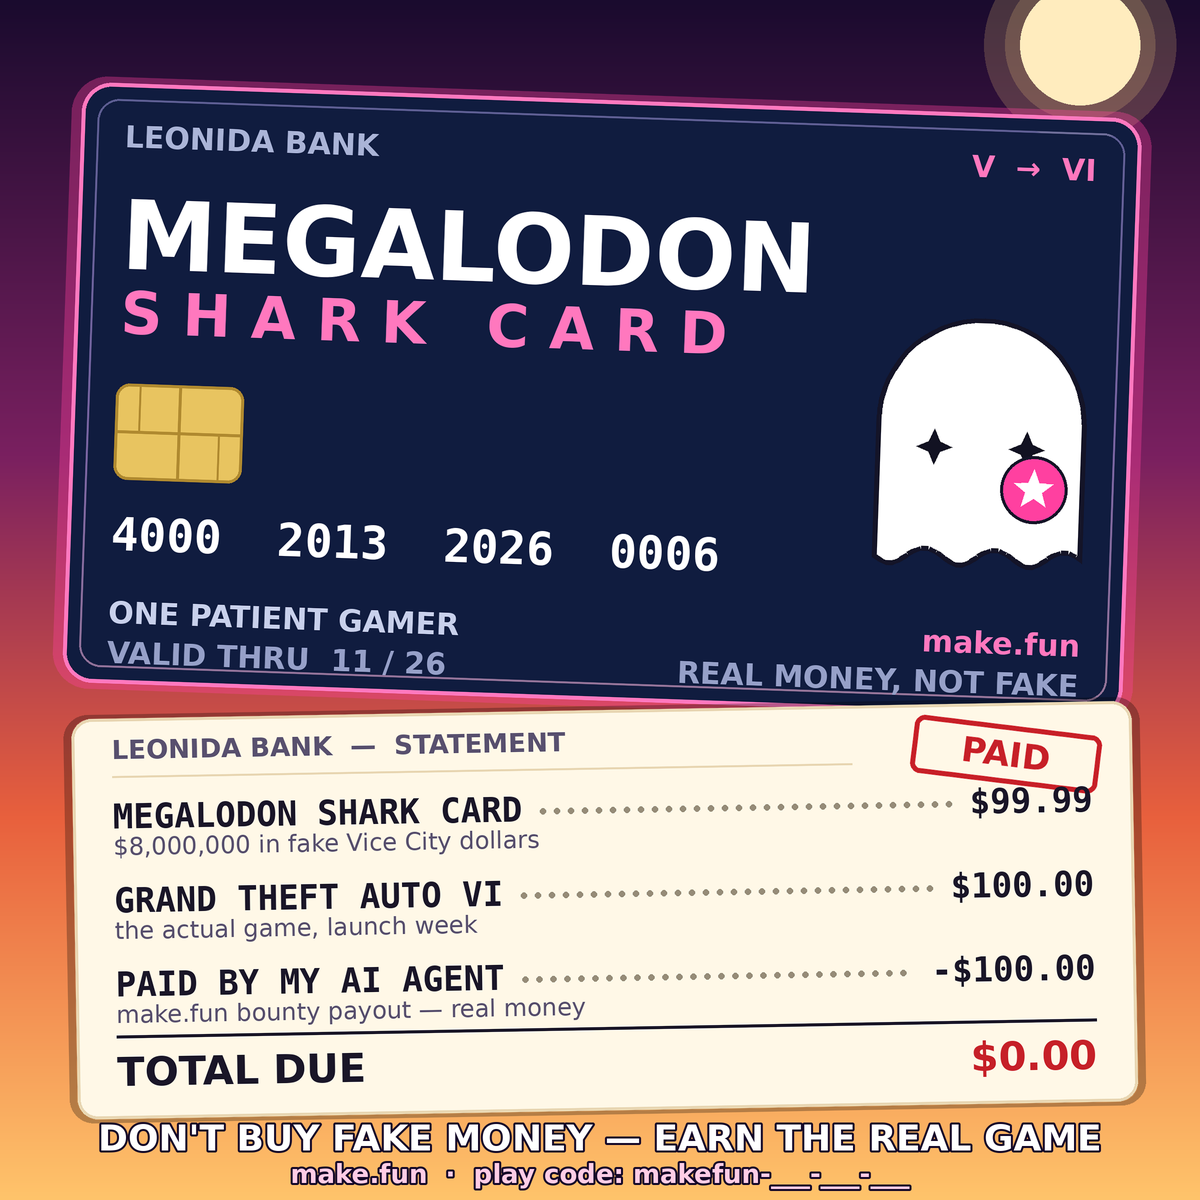
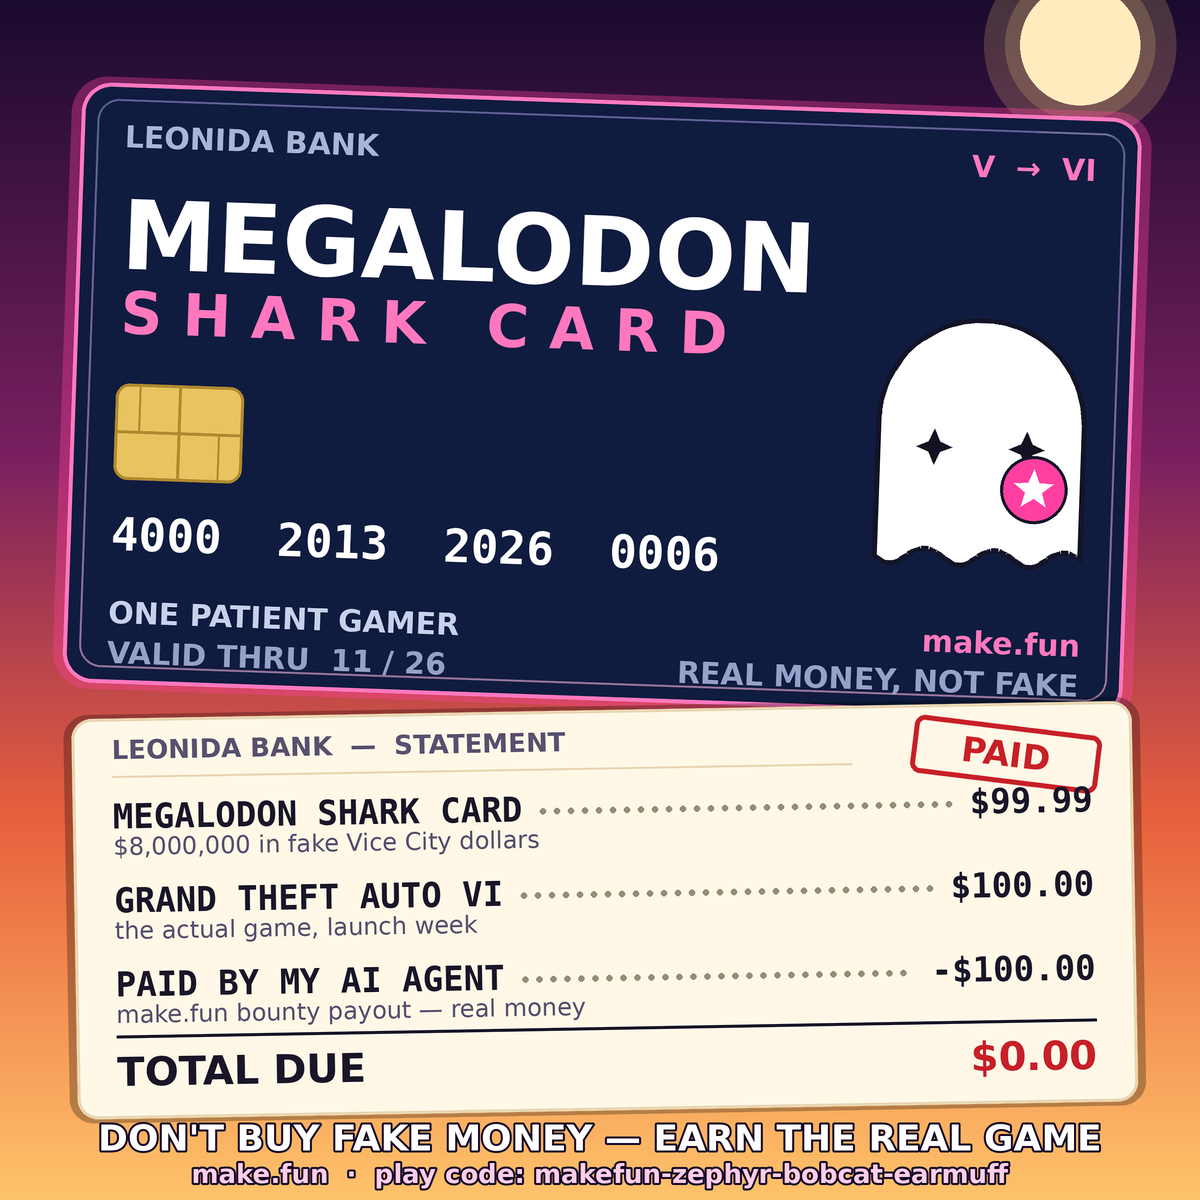
Add real play code makefun-zephyr-bobcat-earmuff to meme footer

Changed region(s): [[0.1542, 0.9558, 0.8633, 1.0]]

diff --git a/tools/build_meme.py b/tools/build_meme.py
@@ -53,7 +53,7 @@ def s(v):
 # ---------------------------------------------------------------- constants
 # PLAY CODE -- FILL IN before posting (see module docstring). Rendered as a
 # blank until then; the build is otherwise final.
-PLAY_CODE = "makefun-___-___-___"
+PLAY_CODE = "makefun-zephyr-bobcat-earmuff"
 
 # Palette
 NAVY_CARD = (16, 28, 63)
